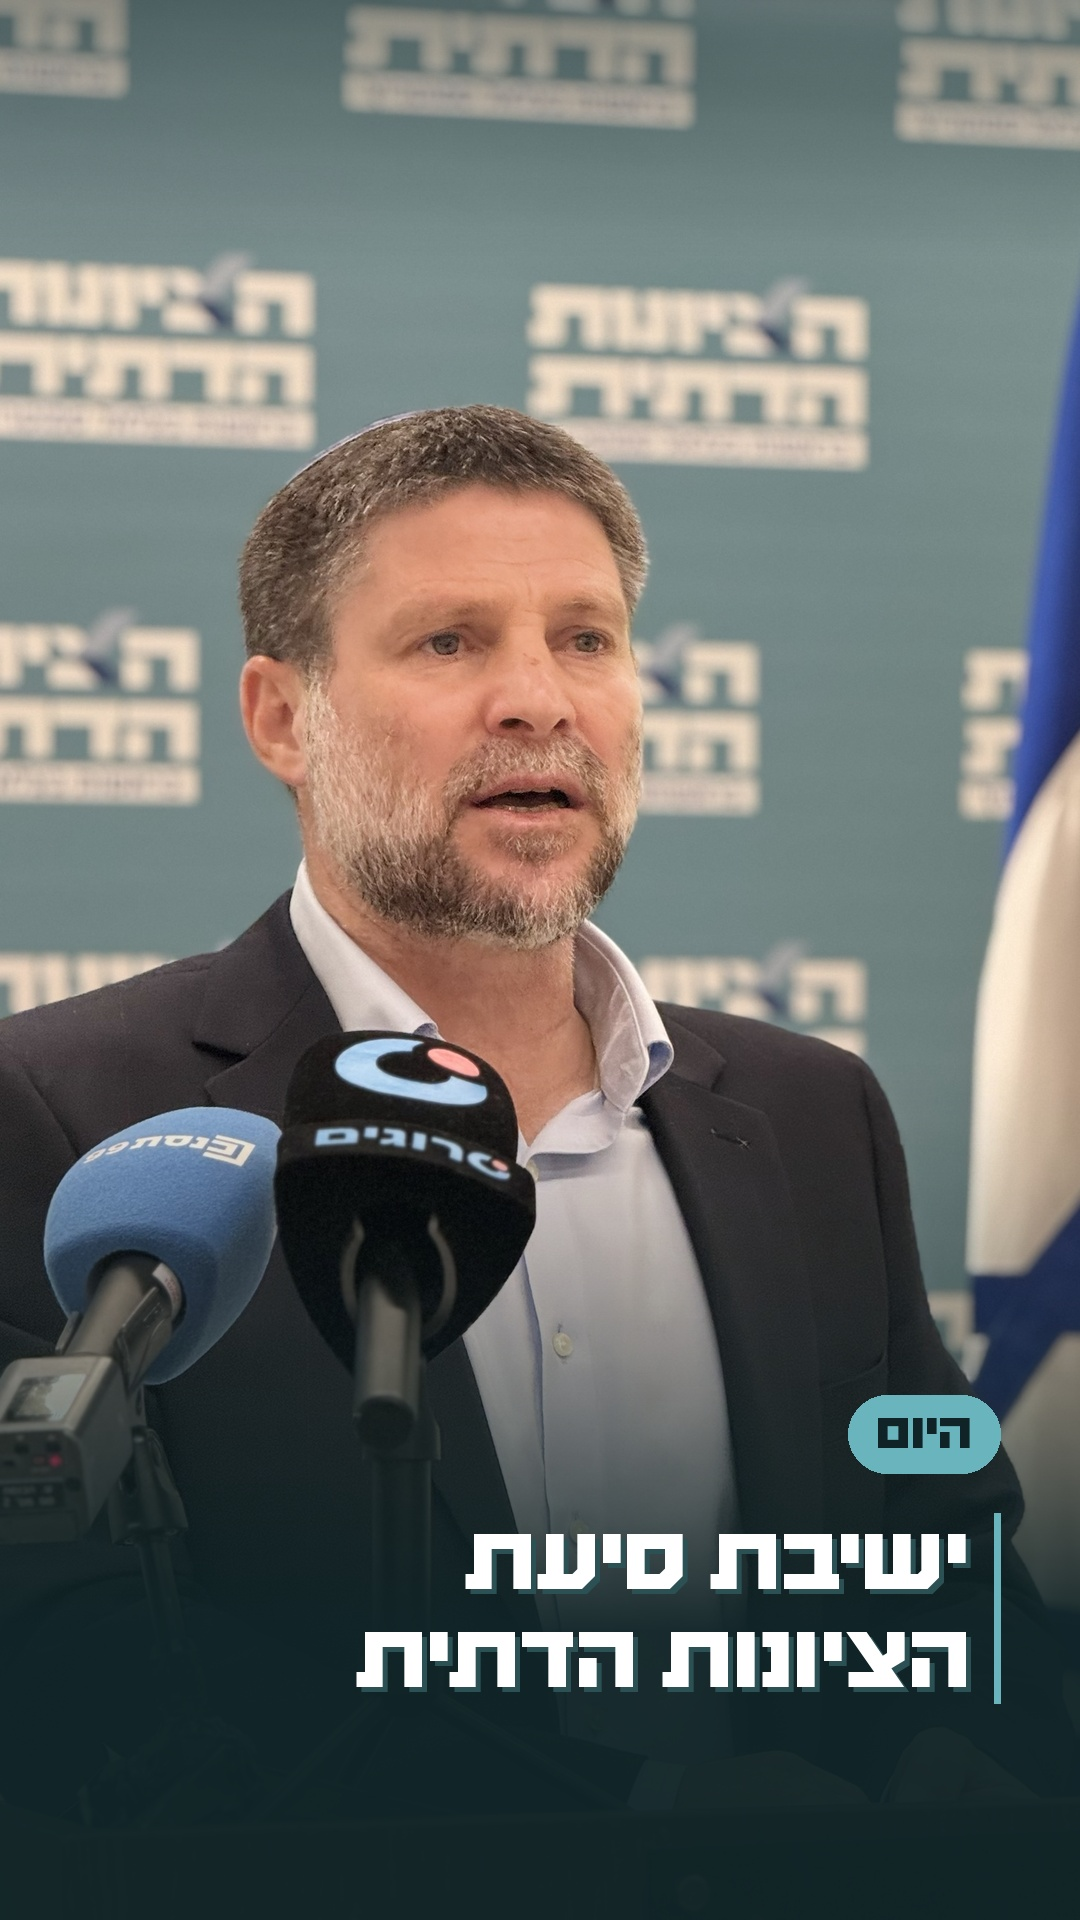
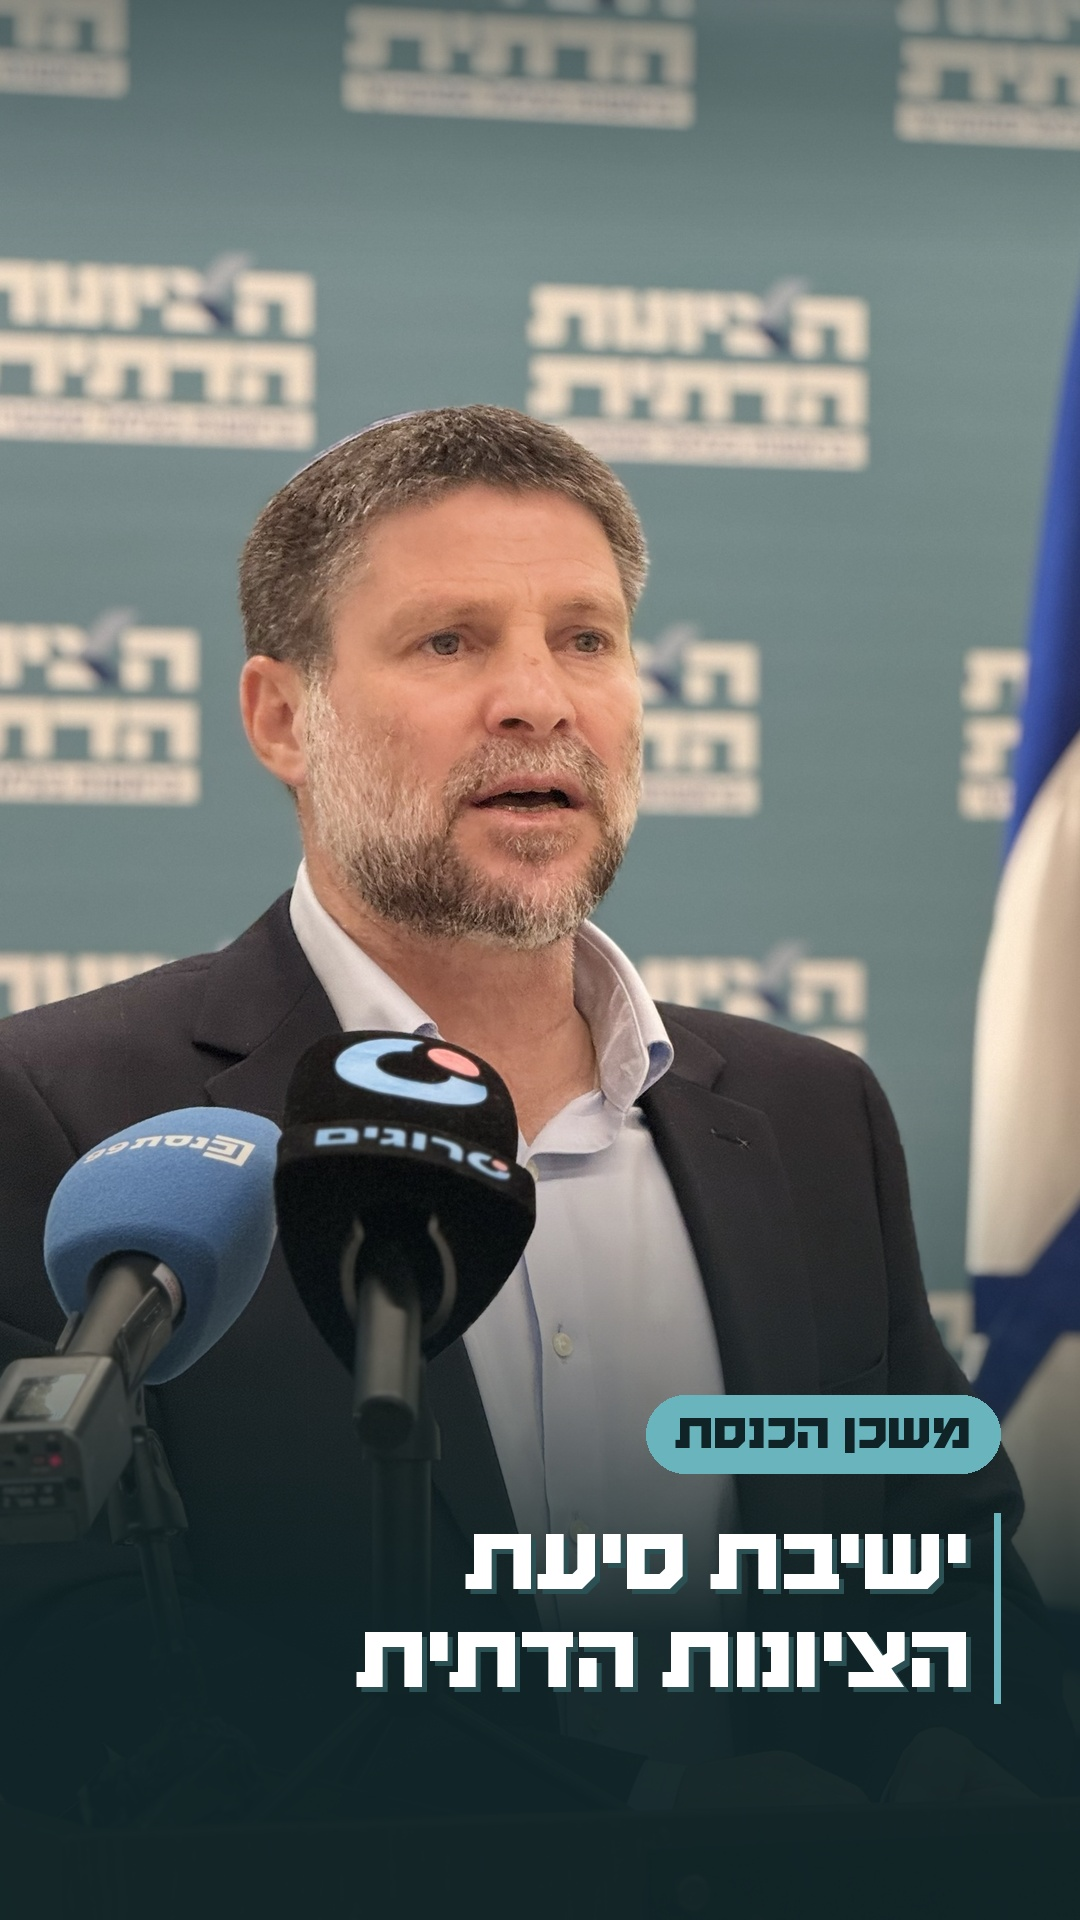
RZ story: pill text
Claude-Session: https://claude.ai/code/session_01RS3QK6pAd3YhyAuXZSJjH1

Changed region(s): [[0.5806, 0.7188, 0.8861, 0.7812]]

diff --git a/content-kit/hatzionut-hadatit/2026-11-story-faction-meeting/make.py b/content-kit/hatzionut-hadatit/2026-11-story-faction-meeting/make.py
@@ -14,7 +14,7 @@ for y in range(H):
     if y < 260: gd.line((0, y, W, y), fill=NIGHT + (int(120 * (1 - y / 260)),))
 im.alpha_composite(g); d = ImageDraw.Draw(im)
 R = W - 80; y = 1395
-pill = 'היום'; pf = F(50); tw = d.textlength(pill, font=pf, direction='rtl')
+pill = 'משכן הכנסת'; pf = F(50); tw = d.textlength(pill, font=pf, direction='rtl')
 d.rounded_rectangle((R - tw - 56, y, R, y + 78), 39, fill=LT); d.text((R - 28, y + 13), pill, font=pf, fill=NIGHT, anchor='ra', direction='rtl')
 y += 112; d.rectangle((R - 6, y + 6, R, y + 196), fill=LT)
 for i, l in enumerate(['ישיבת סיעת', 'הציונות הדתית']):
